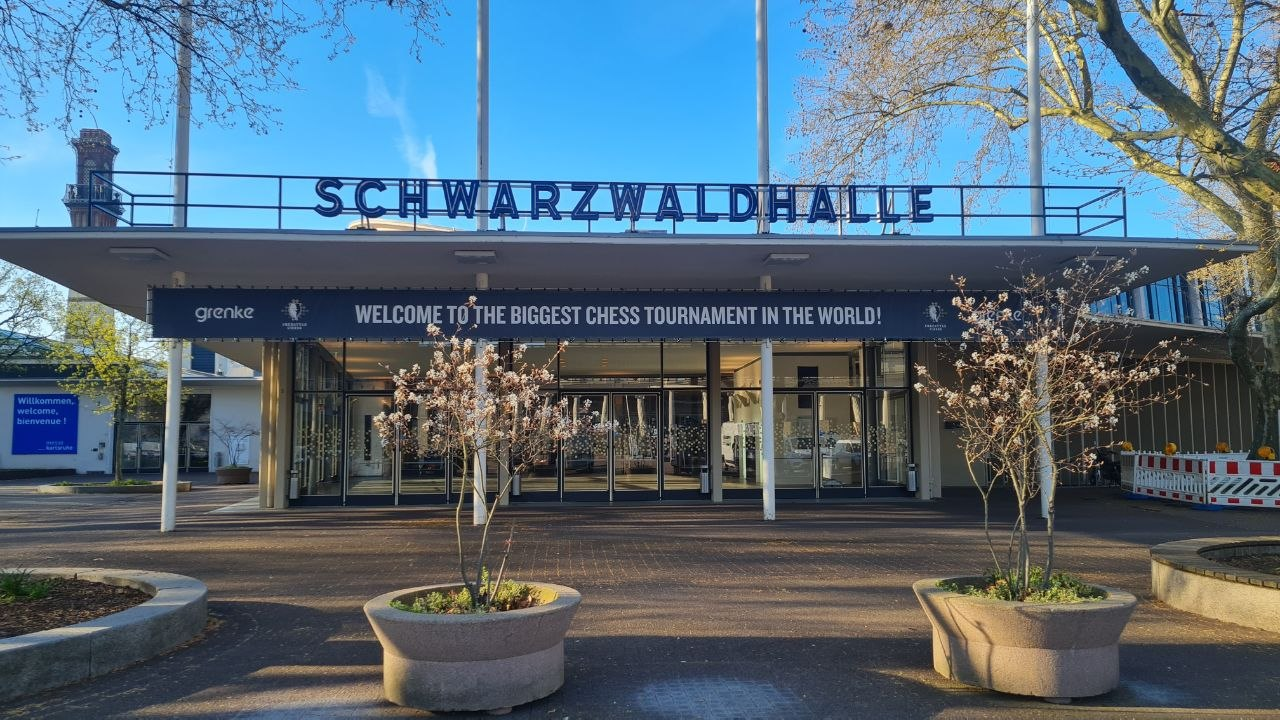
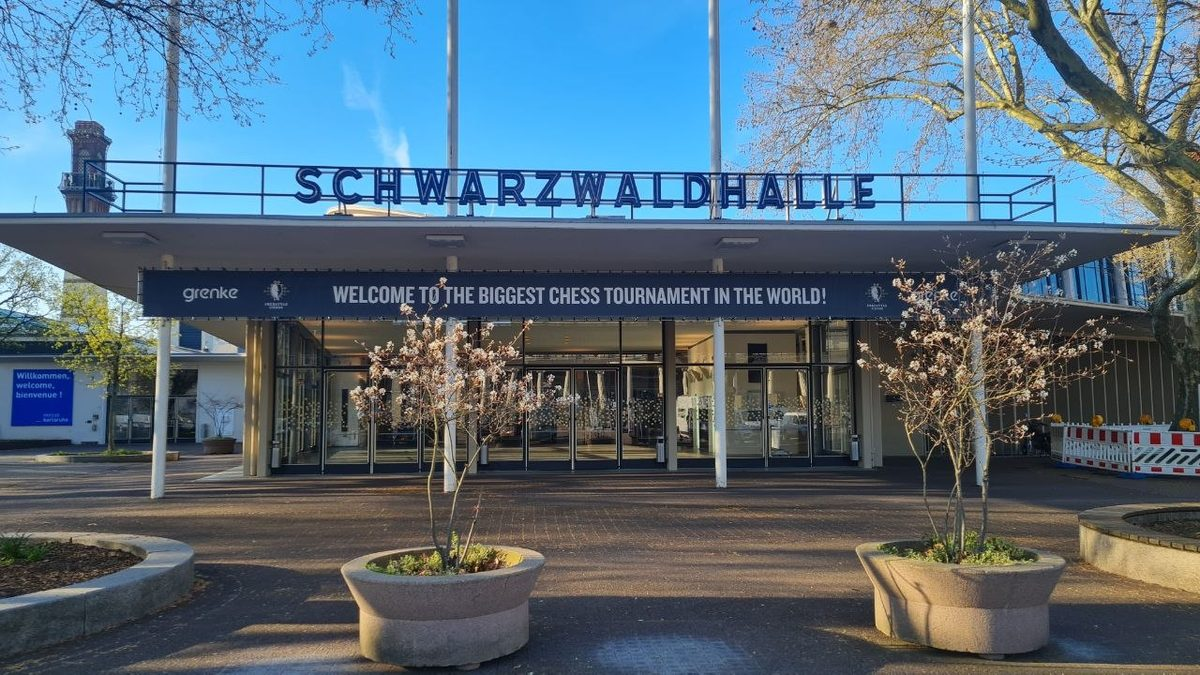
Karlsruhe: salon ve piramit fotoğrafları (#101)
* Karlsruhe: turnuva salonu fotoğrafı (salon.jpg standarda küçültüldü)

Claude-Session: https://claude.ai/code/session_01FWMma4h1RsW6EnUBNEs2cC

* Karlsruhe: piramit fotoğrafı

Claude-Session: https://claude.ai/code/session_01FWMma4h1RsW6EnUBNEs2cC

---------

diff --git a/src/content/karlsruhe-ve-yol-ayrimlari.md b/src/content/karlsruhe-ve-yol-ayrimlari.md
@@ -10,6 +10,8 @@ Hayatta bazen öyle kritik yol ayrımlarına geliriz ki, seçtiğimiz yol nerede
 
 On sekizinci yüzyılda bir Alman asilzadesinin kurduğu bu şirin ve yeşil kente yolum ancak yirmi bir yıllık bir gecikmeyle, bu Nisan ayında düştü. “Dünyanın en büyük açık turnuvası” sloganıyla düzenlenen, Magnus Carlsen başta olmak üzere birçok elit satranççının da freestyle kategorisinde yarıştığı Grenke Açık’ta oynamaya karar vermiştim. Böylece bu gezi, bir satranç turnuvasının ötesinde benim için kişisel bir anlam da taşıyordu. Belki de bu yüzden birçok Alman kentini sıkıcı bulmama rağmen Karlsruhe’yi sevdim.
 
+![Karlsruhe’nin simgesi olan piramit](images/piramit.jpg "Karlsruhe’nin simgesi olan piramit.  Kenti kuran asilzade Karl Wilhelm von Baden-Durlach’ın ebedi istirahatgahı olan kilisenin yerine yapılmış. · Fotoğraf: Tarık Selbes")
+
 Geçen yılın sonlarında Polonya’da üçüncü ve son IM normumu almamın ardından satranca eskisinden daha ciddi olarak eğilme ve turnuvalara daha profesyonelce yaklaşma şeklindeki bir karar almıştım ve Grenke Açık da bu karar sonrası oynadığım ilk turnuvaydı. Her ne kadar öncesinde istediğim gibi hazırlanamasam da en azından turnuva salonuna yakın bir otelde kalmak ve turnuva süresince satranç dersi vermeye hemen hemen tamamen ara vermek gibi birkaç önemli iyileştirme yaptım. Maalesef artık genç denemeyecek bir yaşta olduğum için enerjimi idareli kullanmam gerekiyor.
 
 Bu noktada birkaç örnek verirsem bu değişikliğin önemi daha iyi anlaşılır zannediyorum. Örneğin Legnica’da düzenlenen 2013 Avrupa Bireysel Satranç Şampiyonası esnasında 19. yüzyıldan kalma temizlik yüzü görmemiş, duşu lavabo olarak kullanmanız gereken bir evde kalmış ve ev sahibinin epilepsi hastası köpeğine bakmıştım. Kirli çarşafların üzerinde uyku tulumumdan çıkmamaya çalışarak uyuduğum gecelerde odaya giren köpeğin -hastalığı nedeniyle ona Dogstoyevski adını takmıştım- karanlıkta cam gibi parlayan sıradışı bir yeşil renge sahip gözlerini hala hatırlarım.
@@ -19,6 +21,8 @@ Polonya’da oynadığım bir başka turnuvada da yine “couchsurfing” yapmı
 Fakat Grenke için şartlar son derece elverişliydi. Stuttgart havalimanındaki anlamsız derecede kaotik ve uzun kuyruğu saymazsak -Avrupa’daki havalimanları AB’nin ve de özellikle Almanya’nın çöküşü hakkında Spenglervari teoriler üretmenize neden oluyor- nispeten konforlu bir uçuş ve tren yolculuğunun ardından turnuvadan bir gün önce, 1 Nisan günü vardığım Karlsruhe’de İstanbul’un aksine tam bir bahar havası vardı.
 
 İstasyondan valizi sürüyerek çok da uzun olmayan bir yürüyüşle vardığım salona on dakika mesafedeki nispeten uygun fiyatlı otelim Hotel Barbarossa hiç de kötü olmayan bir oda ve kahvaltı sunuyordu ve Alman mutfağı başarısızlık halinde suçlayabileceğim son sığınağım gibi görünüyordu. İlerleyen günlerde kentin ana meydanına yakın bir konumda bulunan Japon restoranı Izakaya bu son kozu da elimden alacaktı. İlk gün tek turun ardından üst üste dört gün çift tur oynanan yoğun turnuva programını saymazsak elbette.
+
+![Turnuva salonunun girişi](images/salon.jpg "Turnuva salonunun girişi. · Fotoğraf: Tarık Selbes")
 
 İlk akşam kongre merkezinin dışına asılmış “Dünyanın en büyük satranç turnuvasına hoş geldiniz” yazısına bir göz atış ve şehir merkezine kısa bir yürüyüşle geçti. Gerçekten dünyanın en büyük satranç turnuvasına geldiğimi ancak ertesi gün ilk tur için salona geldiğimde tam olarak idrak edebilecektim. Devasa bir salon içerisinde yüzlerce masa ve insan, eşlendirmenin tur saatinde bile hâlâ belli olmaması ve dikey numaralandırma düzeni nedeniyle en azından bu duruma alışana dek masanızı bulmanın imkansızlığı… Sadece A kategorisinde bile başlangıç listesinde başını GM Pavel Eljanov’un çektiği 998 (!) katılımcı olduğunu söylemek herhalde yeterli olur -ki daha B ve C kategorileri ile freestyle turnuvasındaki üç kategoriden bahsetmedim bile.
 
